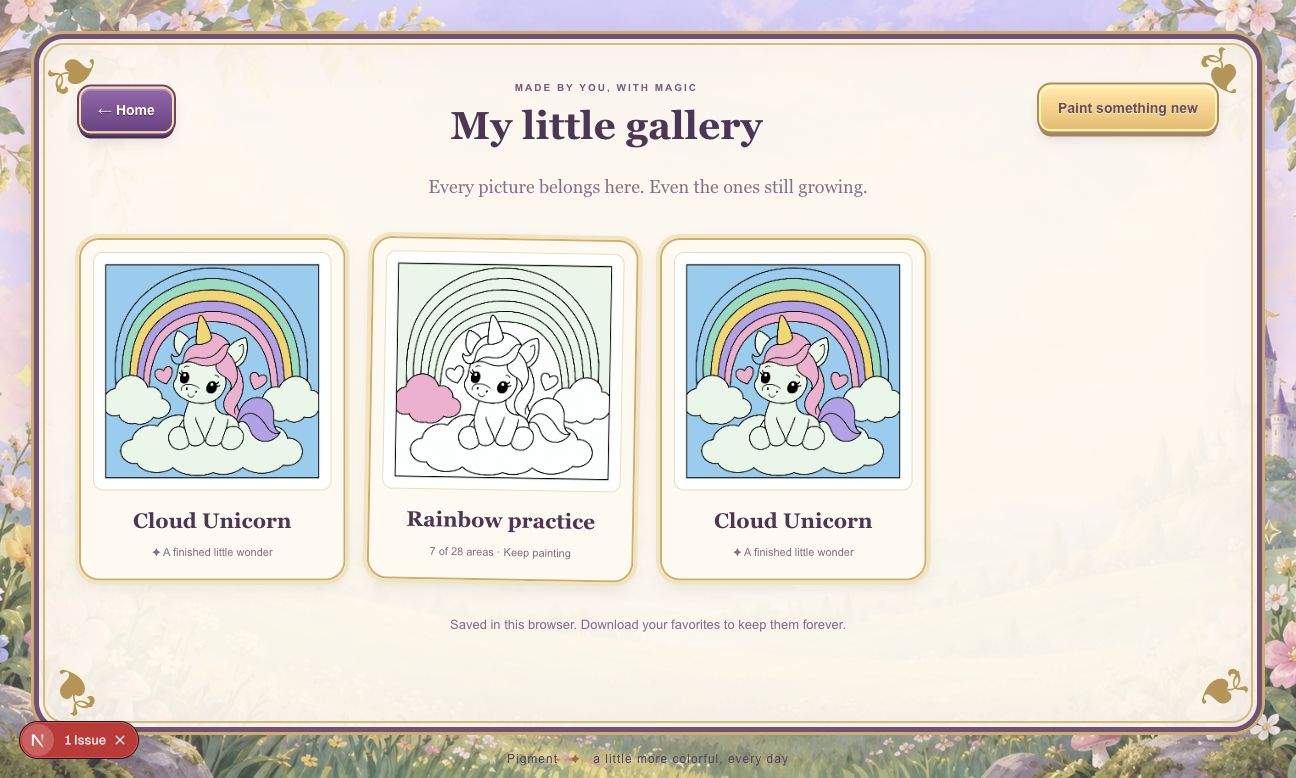
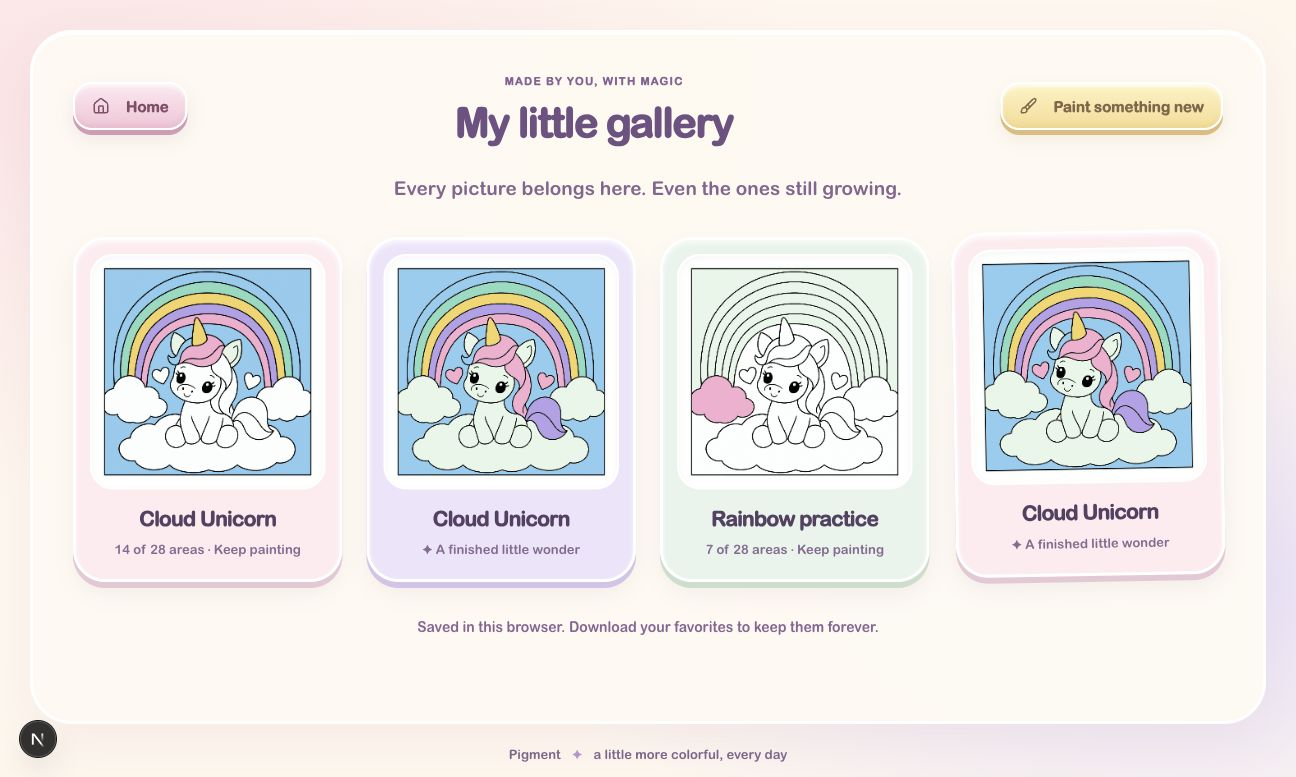
Render real 3D paint buckets and color-changing clay brush

diff --git a/src/components/paint-board.tsx b/src/components/paint-board.tsx
@@ -5,7 +5,8 @@ import GameIcon from "./game-icon";
 import CanvasZoom from "./canvas-zoom";
 import { useEffect, useRef, useState, type PointerEvent, type CSSProperties } from "react";
 import Image from "next/image";
-import styles from "./paint-cursor.module.css";
+import PaintToolsScene from "./paint-tools-scene";
+import type { PaintPointer } from "@/lib/paint-tools-scene";
 import type { Picture } from "@/lib/pictures";
 import { getRegionLabelPosition, paintPixels, prepareArtwork, regionAt, type Segmentation } from "@/lib/paint-engine";
 
@@ -24,9 +25,11 @@ export default function PaintBoard({ picture, initialFills, isEditing = false, o
   const [isDebug] = useState(() => typeof window !== "undefined" && new URLSearchParams(window.location.search).get("debug") === "1");
   const tapStart = useRef<{ x: number; y: number; id: number } | null>(null);
   const canvasRef = useRef<HTMLCanvasElement>(null);
-  const brushRef = useRef<HTMLDivElement>(null);
+  const paletteRef = useRef<HTMLElement>(null);
+  const pointerRef = useRef<PaintPointer>({ x: 0, y: 0, isVisible: false, isPressed: false });
+  const selectedNumberRef = useRef(1);
   const [isBrushVisible, setIsBrushVisible] = useState(false);
-  const [isBrushLoaded, setIsBrushLoaded] = useState(false);
+  const [isSceneReady, setIsSceneReady] = useState(false);
   const timeouts = useRef<ReturnType<typeof setTimeout>[]>([]);
   const hasChanged = useRef(false);
   const selectedColor = picture.palette[selectedNumber - 1];
@@ -122,23 +125,20 @@ export default function PaintBoard({ picture, initialFills, isEditing = false, o
   }
 
   function moveBrush(event: PointerEvent<HTMLCanvasElement>): void {
-    const shouldShowBrush = event.pointerType === "mouse" && isBrushLoaded && window.matchMedia("(hover: hover) and (pointer: fine)").matches;
+    const shouldShowBrush = event.pointerType === "mouse" && isSceneReady && window.matchMedia("(hover: hover) and (pointer: fine)").matches;
     setIsBrushVisible(shouldShowBrush);
-    if (!shouldShowBrush || !brushRef.current) return;
-    /*
-      The illustrated bristle tip is at 10%, 91.4% of the 80px sprite.
-      Keep that exact tip under the pointer so paint lands where it points.
-    */
-    brushRef.current.style.transform = `translate3d(${event.clientX - 8}px, ${event.clientY - 73.12}px, 0)`;
+    pointerRef.current = { ...pointerRef.current, x: event.clientX, y: event.clientY, isVisible: shouldShowBrush };
   }
 
   function startPointer(event: PointerEvent<HTMLCanvasElement>): void {
     moveBrush(event);
     if (event.button !== 0) return;
+    pointerRef.current.isPressed = true;
     tapStart.current = { x: event.clientX, y: event.clientY, id: event.pointerId };
   }
 
   function finishPointer(event: PointerEvent<HTMLCanvasElement>): void {
+    pointerRef.current.isPressed = false;
     const start = tapStart.current;
     tapStart.current = null;
     if (!segmentation || !start || start.id !== event.pointerId || Math.hypot(event.clientX - start.x, event.clientY - start.y) > 8) return;
@@ -163,31 +163,23 @@ export default function PaintBoard({ picture, initialFills, isEditing = false, o
 
   return (
     <section className="painting-screen">
-      <div ref={brushRef} className={styles.brush} data-visible={isBrushVisible} aria-hidden="true">
-        <div className={styles.sprite}>
-          <Image src="/paintbrush.png" width={80} height={80} alt="" unoptimized onLoad={() => setIsBrushLoaded(true)} />
-          <svg className={styles.paint} viewBox="0 0 1000 1000" aria-hidden="true">
-            <path d="M101 914C126 898 131 868 140 841C155 847 184 861 223 864C251 864 273 856 290 846C250 901 184 932 101 914Z" fill={selectedColor} />
-            <path d="M127 909Q175 910 229 881" fill="none" stroke="white" strokeWidth="8" opacity=".5" strokeLinecap="round" />
-          </svg>
-        </div>
-      </div>
+      <PaintToolsScene palette={paletteRef} colors={picture.palette} selectedNumber={selectedNumberRef} pointer={pointerRef} onReady={setIsSceneReady} />
       <header className="screen-header">
         <button className="game-button small" onClick={leavePainting}><GameIcon icon={ArrowLeft} /> Pictures</button>
         <div><span className="eyebrow">{isEditing ? "MAKE A NEW ADVENTURE" : "YOUR LITTLE MASTERPIECE"}</span><h1>{picture.title}</h1></div>
         <div className="toolbar">{!isEditing && <><button className="game-button small" disabled={!segmentation} onClick={saveDrawing}><GameIcon icon={Save} /> Save</button><button className="game-button small gold" disabled={!segmentation} onClick={downloadDrawing}><GameIcon icon={Download} /> Download</button></>}</div>
       </header>
       <div className="paint-layout">
-        <aside className="palette" aria-label="Paint buckets">
+        <aside ref={paletteRef} data-three-menu className="palette" aria-label="Paint buckets">
           <span className="palette-title">Your colors</span>
-          {picture.palette.map((color, index) => <button key={index} className={`bucket ${selectedNumber === index + 1 ? "is-selected" : ""}`} style={{ "--paint": color } as CSSProperties} aria-label={`Bucket ${index + 1}: ${picture.names[index]}`} aria-pressed={selectedNumber === index + 1} onClick={() => { setSelectedNumber(index + 1); setMessage(`Bucket ${index + 1} is ready!`); }}><span className="bucket-handle" /><span className="bucket-lip" /><span className="bucket-number">{index + 1}</span><span className="bucket-shine" /></button>)}
+          {picture.palette.map((color, index) => <button key={index} className={`bucket ${isSceneReady ? "is-3d" : ""} ${selectedNumber === index + 1 ? "is-selected" : ""}`} style={{ "--paint": color } as CSSProperties} aria-label={`Bucket ${index + 1}: ${picture.names[index]}`} aria-pressed={selectedNumber === index + 1} onClick={() => { selectedNumberRef.current = index + 1; setSelectedNumber(index + 1); setMessage(`Bucket ${index + 1} is ready!`); }}><span className="bucket-handle" /><span className="bucket-lip" /><span className="bucket-number">{index + 1}</span><span className="bucket-shine" /></button>)}
           {!isEditing && <button className="undo-button" disabled={!history.length} onClick={undo}><GameIcon icon={Undo2} /> Undo</button>}
         </aside>
         <div className="canvas-area">
           <div className="paper-frame">
             {error ? <p role="alert" className="canvas-message">{error}</p> : !segmentation ? <p className="canvas-message" role="status">Preparing a little magic…</p> : null}
             <CanvasZoom width={segmentation?.width ?? 1} height={segmentation?.height ?? 1}>
-            <canvas ref={canvasRef} aria-label={`${picture.title} coloring canvas. Choose a numbered paint bucket, then tap a matching area.`} onPointerDown={startPointer} onPointerUp={finishPointer} onPointerCancel={() => { tapStart.current = null; }} onPointerEnter={moveBrush} onPointerMove={moveBrush} onPointerLeave={() => setIsBrushVisible(false)} style={{ cursor: isBrushVisible ? "none" : "crosshair", display: segmentation ? "block" : "none" }} />
+            <canvas ref={canvasRef} aria-label={`${picture.title} coloring canvas. Choose a numbered paint bucket, then tap a matching area.`} onPointerDown={startPointer} onPointerUp={finishPointer} onPointerCancel={() => { tapStart.current = null; pointerRef.current.isPressed = false; }} onPointerEnter={moveBrush} onPointerMove={moveBrush} onPointerLeave={() => { setIsBrushVisible(false); pointerRef.current.isVisible = false; }} style={{ cursor: isSceneReady && isBrushVisible ? "none" : "crosshair", display: segmentation ? "block" : "none" }} />
             <div className="bursts" style={{ inset: 0 }} aria-hidden="true">{bursts.map((burst) => <div key={burst.id} className="burst" style={{ left: `${burst.x}%`, top: `${burst.y}%` }}>{Array.from({ length: 12 }, (_, i) => <i key={i} style={{ "--dx": `${Math.cos(i * Math.PI / 6) * (30 + i % 3 * 14)}px`, "--dy": `${Math.sin(i * Math.PI / 6) * (30 + i % 3 * 14)}px`, background: burst.color, opacity: .45 + (i % 3) * .2 } as CSSProperties} />)}</div>)}</div>
             </CanvasZoom>
           </div>

diff --git a/src/lib/paint-tools-scene.ts b/src/lib/paint-tools-scene.ts
@@ -1,0 +1,152 @@
+import type { RefObject } from "react";
+import { createClayPaintbrush } from "./clay-paintbrush";
+
+export type PaintPointer = { x: number; y: number; isVisible: boolean; isPressed: boolean };
+
+type Props = {
+  canvas: HTMLCanvasElement;
+  palette: HTMLElement;
+  colors: string[];
+  selectedNumber: RefObject<number>;
+  pointer: RefObject<PaintPointer>;
+};
+
+export async function mountPaintToolsScene({ canvas, palette, colors, selectedNumber, pointer }: Props): Promise<(() => void) | undefined> {
+  const THREE = await import("three");
+  let renderer: InstanceType<typeof THREE.WebGLRenderer>;
+  try {
+    renderer = new THREE.WebGLRenderer({ canvas, alpha: true, antialias: true });
+  } catch {
+    return undefined;
+  }
+  renderer.setPixelRatio(Math.min(window.devicePixelRatio, 1.5));
+  const scene = new THREE.Scene();
+  const camera = new THREE.OrthographicCamera(0, window.innerWidth, 0, -window.innerHeight, .1, 2000);
+  camera.position.z = 1000;
+  scene.add(new THREE.HemisphereLight(0xffffff, 0xd8bad5, 2.5));
+  const light = new THREE.DirectionalLight(0xffffff, 3.3);
+  light.position.set(-200, 400, 700);
+  scene.add(light);
+  const geometries: InstanceType<typeof THREE.BufferGeometry>[] = [];
+  const materials: InstanceType<typeof THREE.Material>[] = [];
+  const shouldReduceMotion = window.matchMedia("(prefers-reduced-motion: reduce)").matches;
+  let hoveredIndex = -1;
+  let hoverX = 0;
+  let hoverY = 0;
+  let animationFrame = 0;
+  let hasDisposed = false;
+
+  function geometry<T extends InstanceType<typeof THREE.BufferGeometry>>(value: T): T {
+    geometries.push(value);
+    return value;
+  }
+
+  function material(color: string, roughness = .42): InstanceType<typeof THREE.MeshStandardMaterial> {
+    const value = new THREE.MeshStandardMaterial({ color, roughness, metalness: .05 });
+    materials.push(value);
+    return value;
+  }
+
+  /*
+    Every bucket shares these real geometries. Its paint color is the only
+    changing material; all logical controls and number labels stay in HTML.
+  */
+  const bodyGeometry = geometry(new THREE.CylinderGeometry(17, 14, 28, 40));
+  const rimGeometry = geometry(new THREE.TorusGeometry(17, 2.3, 12, 40));
+  const paintGeometry = geometry(new THREE.CylinderGeometry(14.5, 14.5, 1.8, 40));
+  const handleGeometry = geometry(new THREE.TorusGeometry(15, 1.8, 10, 36, Math.PI));
+  const badgeGeometry = geometry(new THREE.CircleGeometry(9.5, 32));
+  const creamMaterial = material("#fff9ef", .55);
+  const handleMaterial = material("#d8c6e8", .35);
+  const buckets = colors.map((color) => {
+    const bucket = new THREE.Group();
+    const paintMaterial = material(color);
+    const bodyMaterial = material(new THREE.Color(color).lerp(new THREE.Color("#ffffff"), .2).getStyle());
+    const body = new THREE.Mesh(bodyGeometry, bodyMaterial);
+    body.position.y = -5;
+    const rim = new THREE.Mesh(rimGeometry, bodyMaterial);
+    rim.rotation.x = Math.PI / 2;
+    rim.position.y = 9;
+    const paint = new THREE.Mesh(paintGeometry, paintMaterial);
+    paint.position.y = 9;
+    const handle = new THREE.Mesh(handleGeometry, handleMaterial);
+    handle.position.set(0, 12, -3);
+    const badge = new THREE.Mesh(badgeGeometry, creamMaterial);
+    badge.position.set(0, -5, 16.4);
+    bucket.add(body, rim, paint, handle, badge);
+    scene.add(bucket);
+    return bucket;
+  });
+
+  const brushAsset = createClayPaintbrush(THREE);
+  const brush = brushAsset.group;
+  brush.visible = false;
+  scene.add(brush);
+
+  function resize(): void {
+    camera.right = window.innerWidth;
+    camera.bottom = -window.innerHeight;
+    camera.updateProjectionMatrix();
+    renderer.setSize(window.innerWidth, window.innerHeight, false);
+  }
+
+  function hover(event: globalThis.PointerEvent): void {
+    const target = event.target instanceof Element ? event.target.closest<HTMLButtonElement>(".bucket") : null;
+    const buttons = Array.from(palette.querySelectorAll<HTMLButtonElement>(".bucket"));
+    hoveredIndex = target ? buttons.indexOf(target) : -1;
+    if (!target) return;
+    const bounds = target.getBoundingClientRect();
+    hoverX = (event.clientX - bounds.left) / bounds.width - .5;
+    hoverY = (event.clientY - bounds.top) / bounds.height - .5;
+  }
+
+  function clearHover(): void {
+    hoveredIndex = -1;
+  }
+
+  function animate(): void {
+    if (hasDisposed) return;
+    const buttons = palette.querySelectorAll<HTMLButtonElement>(".bucket");
+    buckets.forEach((bucket, index) => {
+      const button = buttons[index];
+      if (!button) { bucket.visible = false; return; }
+      const bounds = button.getBoundingClientRect();
+      bucket.visible = bounds.bottom > 0 && bounds.top < window.innerHeight;
+      bucket.position.set(bounds.left + bounds.width / 2, -(bounds.top + bounds.height / 2), 0);
+      const scale = Math.min(bounds.width / 40, bounds.height / 54) * 1.35 * (index + 1 === selectedNumber.current ? 1.04 : 1);
+      bucket.scale.setScalar(scale);
+      const targetX = .22 + (index === hoveredIndex && !shouldReduceMotion ? hoverY * .32 : 0);
+      const targetY = index === hoveredIndex && !shouldReduceMotion ? hoverX * .32 : 0;
+      if (shouldReduceMotion) {
+        bucket.rotation.x = targetX; bucket.rotation.y = targetY;
+      } else {
+        bucket.rotation.x += (targetX - bucket.rotation.x) * .18;
+        bucket.rotation.y += (targetY - bucket.rotation.y) * .18;
+      }
+    });
+    const point = pointer.current;
+    brush.visible = point.isVisible;
+    brush.position.set(point.x, -point.y, 100);
+    brush.scale.setScalar(point.isPressed && !shouldReduceMotion ? .9 : 1);
+    brushAsset.paintMaterial.color.set(colors[selectedNumber.current - 1] ?? colors[0]);
+    renderer.render(scene, camera);
+    animationFrame = requestAnimationFrame(animate);
+  }
+
+  resize();
+  window.addEventListener("resize", resize);
+  palette.addEventListener("pointermove", hover);
+  palette.addEventListener("pointerleave", clearHover);
+  animate();
+  return function dispose(): void {
+    hasDisposed = true;
+    cancelAnimationFrame(animationFrame);
+    window.removeEventListener("resize", resize);
+    palette.removeEventListener("pointermove", hover);
+    palette.removeEventListener("pointerleave", clearHover);
+    geometries.forEach((value) => value.dispose());
+    materials.forEach((value) => value.dispose());
+    brushAsset.dispose();
+    renderer.dispose();
+  };
+}

diff --git a/src/lib/clay-paintbrush.ts b/src/lib/clay-paintbrush.ts
@@ -1,0 +1,57 @@
+import type { BufferGeometry, Group, Material, MeshStandardMaterial, Vector3 } from "three";
+
+export type ClayPaintbrush = { group: Group; paintMaterial: MeshStandardMaterial; tipPosition: Vector3; dispose: () => void };
+
+export function createClayPaintbrush(THREE: typeof import("three")): ClayPaintbrush {
+  const group = new THREE.Group();
+  const geometries: BufferGeometry[] = [];
+  const materials: Material[] = [];
+  const handleMaterial = new THREE.MeshStandardMaterial({ color: 0xb7a0cd, roughness: .55 });
+  const ferruleMaterial = new THREE.MeshStandardMaterial({ color: 0xf5e5c8, roughness: .45 });
+  const bristleMaterial = new THREE.MeshStandardMaterial({ color: 0xd9b98b, roughness: .75 });
+  const paintMaterial = new THREE.MeshStandardMaterial({ color: 0xf48db4, roughness: .5 });
+  materials.push(handleMaterial, ferruleMaterial, bristleMaterial, paintMaterial);
+
+  function addMesh(geometry: BufferGeometry, material: MeshStandardMaterial, x: number, y: number, z: number) {
+    const mesh = new THREE.Mesh(geometry, material);
+    mesh.position.set(x, y, z);
+    mesh.castShadow = true;
+    mesh.receiveShadow = true;
+    geometries.push(geometry);
+    group.add(mesh);
+    return mesh;
+  }
+
+  const handle = addMesh(new THREE.CylinderGeometry(5.5, 6.5, 43, 24), handleMaterial, 0, 52.5, 0);
+  handle.rotation.y = .15;
+  addMesh(new THREE.SphereGeometry(5.5, 24, 16), handleMaterial, 0, 74, 0);
+  addMesh(new THREE.CylinderGeometry(8.2, 8.2, 12, 24), ferruleMaterial, 0, 27, 0);
+  const bandTop = addMesh(new THREE.TorusGeometry(7.5, 1.25, 12, 24), ferruleMaterial, 0, 32, 0);
+  bandTop.rotation.x = Math.PI / 2;
+  const bandBottom = addMesh(new THREE.TorusGeometry(7.5, 1.25, 12, 24), ferruleMaterial, 0, 22, 0);
+  bandBottom.rotation.x = Math.PI / 2;
+  const bristles = addMesh(new THREE.ConeGeometry(8, 21, 32), bristleMaterial, 0, 10.5, 0);
+  bristles.rotation.z = Math.PI;
+  bristles.scale.z = .72;
+
+  /*
+    The rounded paint cap ends at the group's origin so the visible paint tip
+    and the canvas pointer hotspot remain aligned when the brush rotates.
+  */
+  const paintCoating = addMesh(new THREE.ConeGeometry(6, 14, 32), paintMaterial, 0, 7, 0);
+  paintCoating.rotation.z = Math.PI;
+  paintCoating.scale.z = .76;
+  const paintTip = addMesh(new THREE.SphereGeometry(3, 24, 16), paintMaterial, 0, 3, 0);
+  paintTip.scale.set(.86, 1, .66);
+  const paintCollar = addMesh(new THREE.SphereGeometry(6, 24, 16), paintMaterial, 0, 11, 0);
+  paintCollar.scale.set(1, .5, .72);
+  group.rotation.z = -Math.PI / 4;
+  const tipPosition = new THREE.Vector3(0, 0, 0);
+
+  function dispose(): void {
+    geometries.forEach((geometry) => geometry.dispose());
+    materials.forEach((material) => material.dispose());
+  }
+
+  return { group, paintMaterial, tipPosition, dispose };
+}

diff --git a/src/components/paint-tools-scene.tsx b/src/components/paint-tools-scene.tsx
@@ -1,0 +1,31 @@
+"use client";
+
+import { useEffect, useRef, type RefObject } from "react";
+import { mountPaintToolsScene, type PaintPointer } from "@/lib/paint-tools-scene";
+import styles from "./paint-cursor.module.css";
+
+type Props = { palette: RefObject<HTMLElement | null>; colors: string[]; selectedNumber: RefObject<number>; pointer: RefObject<PaintPointer>; onReady: (isReady: boolean) => void };
+
+export default function PaintToolsScene({ palette, colors, selectedNumber, pointer, onReady }: Props) {
+  const canvasRef = useRef<HTMLCanvasElement>(null);
+  useEffect(() => {
+    const canvas = canvasRef.current;
+    const paletteElement = palette.current;
+    if (!canvas || !paletteElement) return;
+    let isCancelled = false;
+    let dispose: (() => void) | undefined;
+    function loseContext(): void {
+      dispose?.();
+      pointer.current.isVisible = false;
+      onReady(false);
+    }
+    canvas.addEventListener("webglcontextlost", loseContext);
+    mountPaintToolsScene({ canvas, palette: paletteElement, colors, selectedNumber, pointer }).then((cleanup) => {
+      if (isCancelled) { cleanup?.(); return; }
+      dispose = cleanup;
+      onReady(Boolean(cleanup));
+    }).catch(() => { if (!isCancelled) onReady(false); });
+    return () => { isCancelled = true; canvas.removeEventListener("webglcontextlost", loseContext); dispose?.(); };
+  }, [palette, colors, selectedNumber, pointer, onReady]);
+  return <canvas ref={canvasRef} className={styles.scene} aria-hidden="true" />;
+}

diff --git a/src/components/paint-cursor.module.css b/src/components/paint-cursor.module.css
@@ -1,41 +1,8 @@
-.brush {
+.scene {
   position: fixed;
-  top: 0;
-  left: 0;
-  width: 80px;
-  height: 80px;
-  z-index: 100;
-  pointer-events: none;
-  visibility: hidden;
-  will-change: transform;
-}
-
-.brush[data-visible="true"] {
-  visibility: visible;
-}
-
-.sprite {
-  position: relative;
-  width: 100%;
-  height: 100%;
-  filter: drop-shadow(2px 3px 2px #4d2b5533);
-}
-
-.sprite img {
-  width: 100%;
-  height: 100%;
-}
-
-.paint {
-  position: absolute;
   inset: 0;
-  width: 100%;
-  height: 100%;
-  opacity: .92;
-}
-
-@media (hover: none), (pointer: coarse) {
-  .brush {
-    display: none;
-  }
+  width: 100vw;
+  height: 100dvh;
+  z-index: 20;
+  pointer-events: none;
 }

diff --git a/docs/verification/gameplay.md b/docs/verification/gameplay.md
@@ -22,3 +22,7 @@ Verified with the controlled Codex in-app browser against the local application 
 The automated engine and export-route suite contains 19 behavioral tests. ESLint and TypeScript checks passed. Vercel completed the initial production build successfully; local Turbopack worker binding was restricted by the desktop sandbox.
 
 Gallery data and puzzle edits are browser-local. This verification does not claim cloud synchronization or offline caching.
+
+The approved Puffy Paint Club direction now appears throughout the main home, picture picker, canvas, gallery, importer, and workshop. Palette buckets and the pointer brush are genuine Three.js meshes with lighting and shared geometry/materials. Bucket buttons and numbers remain accessible HTML controls. The selected brush paint material updates directly from the bucket color. The mesh tip is anchored at the real canvas click point; the brush stays hidden for touch input. Renderer resources are disposed on leaving the board, and CSS controls remain available when WebGL cannot initialize.
+
+Chrome verification confirmed all six real bucket models, enlarged bucket sizing, a real Rose pink bucket click followed by a successful mane fill, and correct brush hotspot alignment. Reduced-motion mode removes hover/dab animation. The fullscreen 3D overlay renders the current viewport; mobile evidence uses viewport screenshots with the palette scrolled into view.

diff --git a/docs/verification/deployment.md b/docs/verification/deployment.md
@@ -51,3 +51,7 @@ Controlled Chrome verification confirmed 100% → 150% → 200% zoom, accurate u
 ## Published zoom and preview release
 
 Application commit `ea279e90c3886aecc311b81f052fa447c5266b78` deployed READY to https://pigment-2f2wnv74m-sprioleau-projects.vercel.app in 25 seconds. Both https://pigment.sprioleau.dev and https://pigment.sprioleau.dev/explore/puffy returned HTTP 200 over HTTPS. An error-level runtime log snapshot returned no logs. The workshop screenshot and final verification record are included in the following documentation commit.
+
+## Approved Puffy theme and branding
+
+The approved Puffy Paint Club theme was published throughout the application in commit `2522975cbe052d54c8b6b2b62129c50cff573185`; its production build completed READY. Branding commit `bd8fb8d` updates the approved mascot logo, exact 1200 × 630 social card, Apple icon, normal/maskable app icons, and RGBA PNG-backed ICO favicon. Brand-generation prompts and original outputs are recorded in `docs/concepts/puffy-brand-prompts.txt` and `source-art`.
